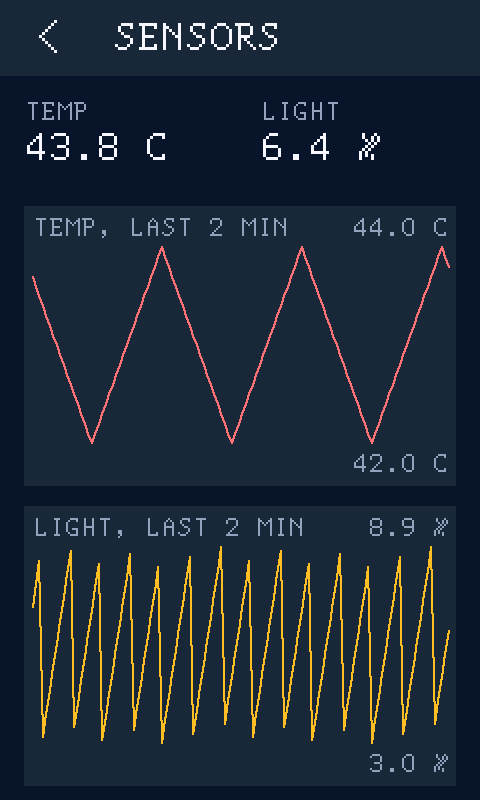
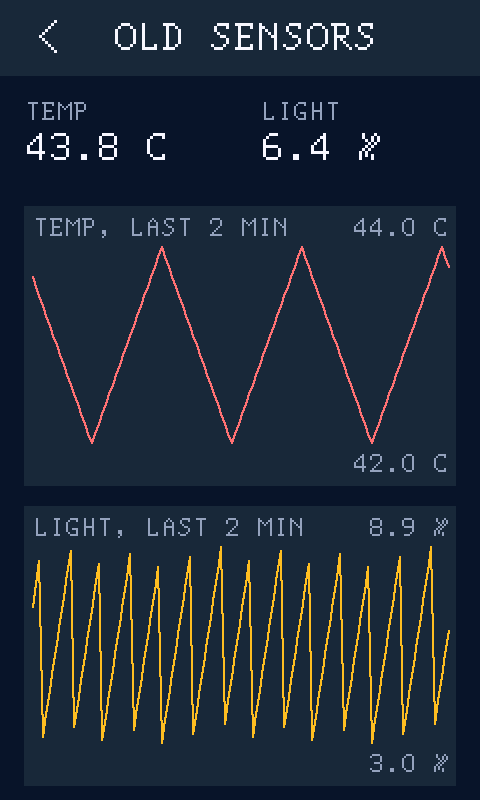
firmware: brightness slider drives the backlight; hand-drawn pages renamed OLD STATION/SENSORS/DEVICE
The LVGL demo slider only changed its label; it now sets the TIM12 PWM
duty (10-100 %, starts at the boot value 80 %). Verified on the board:
CCR2 930/1000 after dragging to 93, and the screen visibly dims.
The hand-drawn pages under CLASSIC differ from the LVGL ones, so they no
longer share their names.

Changed region(s): [[0.2188, 0.0312, 0.7812, 0.0625]]

diff --git a/handbook/f407/gui/Lvgl.qml b/handbook/f407/gui/Lvgl.qml
@@ -83,7 +83,7 @@ Section {
     KeyPoints {
         label: qsTr("读结果")
         points: [
-            qsTr("板子上点两下按钮，回调计数是 2；滑块拖到右边，值是 92，和模拟器完全一样。按钮、滑块、背景的像素值两边也相同（0x24BE、0x10A3）：同一份 LVGL、同一个 lv_conf.h，画出来的就是同一组像素。看屏的人用手指和鼠标各试了一遍，确认正常。"),
+            qsTr("板子上点两下按钮，回调计数是 2；滑块拖到右边，值是 93，和模拟器完全一样；背光 PWM 的占空比跟着从 80% 变成 93%（读 TIM12 的 CCR2），看屏的人确认亮度会变。按钮、滑块、背景的像素值两边也相同（0x24BE、0x10A3）：同一份 LVGL、同一个 lv_conf.h，画出来的就是同一组像素。看屏的人用手指和鼠标各试了一遍，确认正常。"),
             qsTr("整屏一帧（347520 像素，正好 480 × 724，分 46 块）用了 69.2 ms，其中写屏 24.2 ms，其余约 45 ms 是 LVGL 在内存里画：抗锯齿的字、圆角、半透明叠加都要逐像素计算。手写框架换一页全屏只要约 34 ms，因为它几乎只是在写屏。"),
             qsTr("停着不动时，曲线每秒加一个点，整个曲线图（95040 像素）重画一次，一帧约 22 ms。模拟器里点两下按钮这一步写了约 71 万像素，减去一次曲线更新，大约是按钮那块（432 × 72）重画了 20 次。默认主题的按钮按下、松开有过渡效果，推测是过渡的每一帧都重画了按钮；没有逐帧核对。"),
             qsTr("LVGL 的堆最多用了 10448 字节（给了 44 KB），以后控件多了还有余量。")

diff --git a/handbook/f407/gui/Unify.qml b/handbook/f407/gui/Unify.qml
@@ -33,7 +33,7 @@ Section {
         points: [
             qsTr("三个 LVGL 页面都要卡片、一行左右撑开的文字、只在变化时才改的标签、定点数转文字，这些挪进了 lv_ui.c。页面文件里只剩「这一页有什么」。"),
             qsTr("设备页就是几张卡片，每行左边名字、右边数值。新加了一行「LVGL 内存池」，用的是移植层每秒更新一次的统计。"),
-            qsTr("CLASSIC 是手写框架的一个普通页面，带三个图标控件，点进去是手写版的工位、传感器、设备。框架的页面栈有 4 层，首页 → CLASSIC → 页面只用 3 层。")
+            qsTr("CLASSIC 是手写框架的一个普通页面，带三个图标控件（OLD ST、OLD SE、OLD DV），点进去是手写版的工位、传感器、设备。框架的页面栈有 4 层，首页 → CLASSIC → 页面只用 3 层。")
         ]
     }
 
@@ -71,6 +71,6 @@ Section {
     }
 
     InSystem {
-        text: qsTr("首页现在是：STATION、SENSORS、DEVICE（LVGL 版）、LVGL（演示页）、CLASSIC（手写版的三页）。首页本身和标题栏、返回键仍是手写框架画的——它够简单，没有必要换。")
+        text: qsTr("首页现在是：STATION、SENSORS、DEVICE（LVGL 版）、LVGL（演示页）、CLASSIC（手写版的三页：OLD STATION、OLD SENSORS、OLD DEVICE。和首页上的 LVGL 版界面不同，所以名字前加了 OLD，不用同名）。首页本身和标题栏、返回键仍是手写框架画的——它够简单，没有必要换。")
     }
 }

diff --git a/examples/gui_sim/main.cpp b/examples/gui_sim/main.cpp
@@ -15,6 +15,7 @@ extern uint32_t g_now;
 extern vc_result g_sim_result;
 extern volatile uint32_t g_lv_flushes, g_lv_flush_px, g_lv_clicks;
 extern volatile int32_t g_lv_slider;
+extern uint8_t g_sim_backlight;
 extern int g_sim_result_fresh, g_sim_image_fresh, g_sim_image_done;
 }
 
@@ -101,8 +102,8 @@ int main(int argc, char *argv[])
     ev(GUI_DOWN, 240, 286); run(100);
     for (int x = 260; x <= 420; x += 20) { ev(GUI_MOVE, x, 286); run(20); }
     ev(GUI_UP, 420, 286); run(200);
-    step("按住滑块的圆点，拖到右边");                         save("gui-lvgl-used");
-    std::printf("    滑块的值 %ld\n", (long)g_lv_slider);
+    step("按住滑块，拖到右边");                         save("gui-lvgl-used");
+    std::printf("    滑块的值 %ld，背光设成 %u %%\n", (long)g_lv_slider, (unsigned)g_sim_backlight);
     for (auto [x, y, what] : {std::tuple{240, 160, "按钮"}, {100, 286, "滑块左半"}, {400, 286, "滑块右半"}, {240, 700, "LVGL 背景"}})
         std::printf("    (%3d,%3d) %-12s 0x%04x\n", x, y, what, g_fb[y][x]);
     tap(40, 38);
@@ -112,13 +113,13 @@ int main(int argc, char *argv[])
     tap(240, 380);
     step("点 CLASSIC 图标（二级首页）");                         save("gui-classic-home");
     tap(88, 190);
-    step("点 STATION：手写版工位页");                            save("gui-classic");
+    step("点 OLD ST：手写版工位页");                            save("gui-classic");
     run(1000);
     step("什么都没变，又过了 1 秒");
     tap(40, 38); tap(240, 190);
-    step("返回，点 SENSORS：手写版传感器页");                    save("gui-classic-sensors");
+    step("返回，点 OLD SE：手写版传感器页");                    save("gui-classic-sensors");
     tap(40, 38); tap(392, 190);
-    step("返回，点 DEVICE：手写版设备页");                       save("gui-classic-device");
+    step("返回，点 OLD DV：手写版设备页");                       save("gui-classic-device");
     run(3000);
     step("停 3 秒（运行时间每秒刷新）");
     tap(40, 38); tap(40, 38);

diff --git a/firmware/station/App/page_classic.c b/firmware/station/App/page_classic.c
@@ -27,15 +27,15 @@ static void classic_tick(uint32_t now)
     }
 }
 
-const gui_page g_page_classic_station = {"STATION", 0, 0, classic_enter, classic_tick};
+const gui_page g_page_classic_station = {"OLD STATION", 0, 0, classic_enter, classic_tick};
 
-/* 二级首页：和首页一样的图标，点进去是手写版的页面 */
+/* 二级首页：点进去是手写版的页面。名字前面加 OLD：和首页上的 LVGL 版是两套实现、界面不同，不能同名 */
 static void open_page(gui_widget *w) { gui_open((const gui_page *)w->user); }
 static void draw_tile(const gui_widget *w);
 static gui_widget s_tiles[] = {
-    {16, GUI_BAR_H + 24, 144, 184, "STATION", RGB565(37, 99, 235), 0, 0, draw_tile, open_page, (void *)&g_page_classic_station},
-    {168, GUI_BAR_H + 24, 144, 184, "SENSORS", RGB565(22, 163, 74), 0, 0, draw_tile, open_page, (void *)&g_page_classic_sensors},
-    {320, GUI_BAR_H + 24, 144, 184, "DEVICE", RGB565(100, 116, 139), 0, 0, draw_tile, open_page, (void *)&g_page_classic_device},
+    {16, GUI_BAR_H + 24, 144, 184, "OLD ST", RGB565(37, 99, 235), 0, 0, draw_tile, open_page, (void *)&g_page_classic_station},
+    {168, GUI_BAR_H + 24, 144, 184, "OLD SE", RGB565(22, 163, 74), 0, 0, draw_tile, open_page, (void *)&g_page_classic_sensors},
+    {320, GUI_BAR_H + 24, 144, 184, "OLD DV", RGB565(100, 116, 139), 0, 0, draw_tile, open_page, (void *)&g_page_classic_device},
 };
 static const char *const kGlyph[] = {"ST", "SE", "DV"};
 static void draw_tile(const gui_widget *w)

diff --git a/firmware/station/App/page_lvgl.c b/firmware/station/App/page_lvgl.c
@@ -2,6 +2,7 @@
 #include "pages.h"
 
 #include "app.h"
+#include "lcd.h"
 #include "lv_port.h"
 #include "lvgl.h"
 
@@ -24,6 +25,7 @@ static void clicked(lv_event_t *e)
 static void slid(lv_event_t *e)
 {
     g_lv_slider = lv_slider_get_value(lv_event_get_target_obj(e));
+    lcd_backlight((uint8_t)g_lv_slider);   /* 真的去改背光 PWM 的占空比（TIM12 通道 2） */
     lv_label_set_text_fmt(s_value, "亮度 %d %%", (int)g_lv_slider);
 }
 
@@ -51,13 +53,14 @@ void lvgl_page_build(void)
 
     lv_obj_t *slider = lv_slider_create(s_screen);
     lv_obj_set_width(slider, LV_PCT(100));
-    lv_slider_set_value(slider, 50, LV_ANIM_OFF);
-    g_lv_slider = 50;
+    lv_slider_set_range(slider, 10, 100);   /* 最低 10 %：滑到 0 背光全灭，就看不见屏幕、也找不到滑块了 */
+    lv_slider_set_value(slider, 80, LV_ANIM_OFF);   /* 和开机时 lcd_init 设的背光一致 */
+    g_lv_slider = 80;
     lv_obj_add_event_cb(slider, slid, LV_EVENT_VALUE_CHANGED, NULL);
 
     s_value = lv_label_create(s_screen);
     lv_obj_set_style_text_font(s_value, &vc_font_cjk_20, 0);
-    lv_label_set_text(s_value, "亮度 50 %");
+    lv_label_set_text(s_value, "亮度 80 %");
 
     lv_obj_t *cap = lv_label_create(s_screen);
     lv_obj_set_style_text_font(cap, &vc_font_cjk_20, 0);

diff --git a/firmware/station/App/page_classic_sensors.c b/firmware/station/App/page_classic_sensors.c
@@ -95,4 +95,4 @@ static void draw_all(void)
 static void sensors_enter(void) { draw_all(); s_fresh = 0; }
 static void sensors_tick(uint32_t now) { (void)now; if (s_fresh) { draw_all(); s_fresh = 0; } }
 
-const gui_page g_page_classic_sensors = {"SENSORS", 0, 0, sensors_enter, sensors_tick};
+const gui_page g_page_classic_sensors = {"OLD SENSORS", 0, 0, sensors_enter, sensors_tick};

diff --git a/examples/gui_sim/sim_lcd.c b/examples/gui_sim/sim_lcd.c
@@ -38,3 +38,6 @@ void lcd_draw_rgb565(uint16_t x, uint16_t y, uint16_t w, uint16_t h, const uint1
 }
 
 uint16_t lcd_read_pixel(uint16_t x, uint16_t y) { return g_fb[y][x]; }
+
+uint8_t g_sim_backlight = 80;          /* 模拟器没有背光，只记下最后设的值 */
+void lcd_backlight(uint8_t percent) { g_sim_backlight = percent > 100 ? 100 : percent; }

diff --git a/firmware/station/App/page_classic_device.c b/firmware/station/App/page_classic_device.c
@@ -63,4 +63,4 @@ static void device_tick(uint32_t now)
     if (now - last >= 1000u) { last = now; draw_dynamic(now); }
 }
 
-const gui_page g_page_classic_device = {"DEVICE", 0, 0, device_enter, device_tick};
+const gui_page g_page_classic_device = {"OLD DEVICE", 0, 0, device_enter, device_tick};

diff --git a/firmware/station/扩充方案.md b/firmware/station/扩充方案.md
@@ -4,7 +4,7 @@
 
 ## 现在的状态（出发点）
 
-- 首页（手写框架）：STATION、SENSORS、DEVICE（LVGL）、LVGL 演示页、CLASSIC（手写版三页）。
+- 首页（手写框架）：STATION、SENSORS、DEVICE（LVGL）、LVGL 演示页、CLASSIC（手写版三页，名字是 OLD STATION / OLD SENSORS / OLD DEVICE——用户要求：界面不同的页面不要同名）。
 - 资源用量（2026-10-05 实测，提交 af11ae4）：
   - Flash 约 383 KB / 1 MB（LVGL 228 KB，Montserrat 字体 71 KB，中文字体 26.6 KB）
   - 片内 RAM 78%；CCM 59 KB / 64 KB（LVGL 内存池 44 KB + 绘图缓冲 15 KB）
@@ -38,7 +38,7 @@
 
 ### 3. 三件小事（各半小时左右）
 
-- **背光**：LVGL 演示页的「亮度」滑块接到 `lcd_backlight()`（现在只是改文字）。
+- ~~**背光**~~：已完成（2026-10-05）。LVGL 演示页的「亮度」滑块接到 `lcd_backlight()`，范围 10–100 %，板上读 TIM12 CCR2 验证，用户确认亮度会变。
 - **存储自检**：设备页加「自检」按钮，跑 SPI Flash（末尾 4 KB）、EEPROM、外部 SRAM（避开 0x6800_0000 起的缩略图）的读写校验，结果显示在卡片里。参考 agy `page_manager.c` 的 Page4。
 - **任务列表**：设备页加各任务的名字、优先级、栈剩余（需要 FreeRTOSConfig 打开 `INCLUDE_uxTaskGetStackHighWaterMark` / `configUSE_TRACE_FACILITY`，改 ioc）。这样以后不用调试器扫 0xA5 也能看栈。
 
